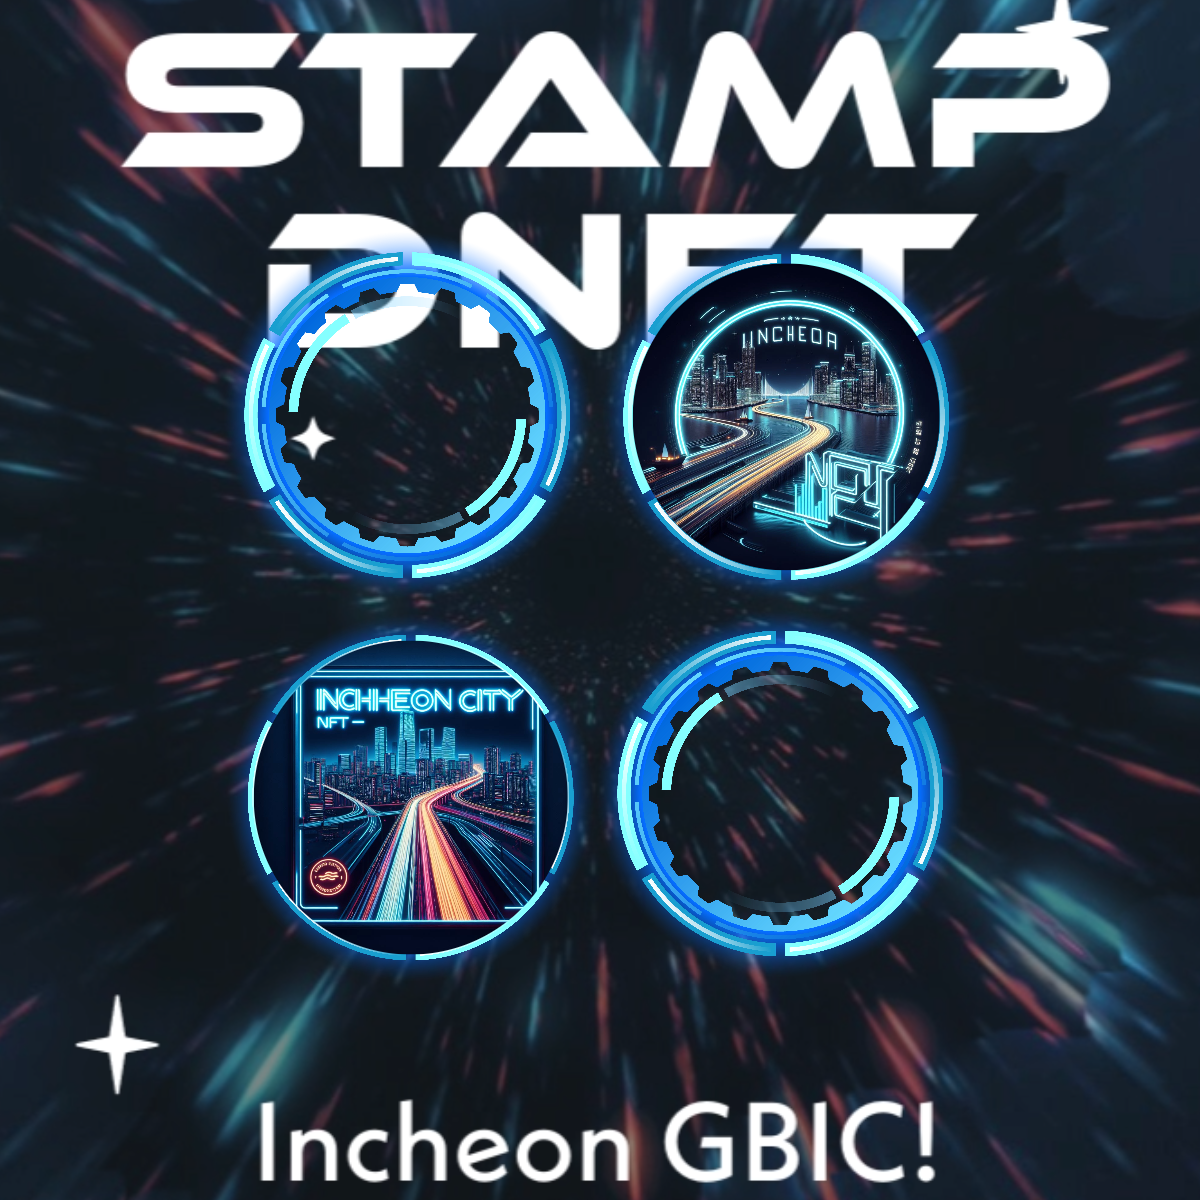
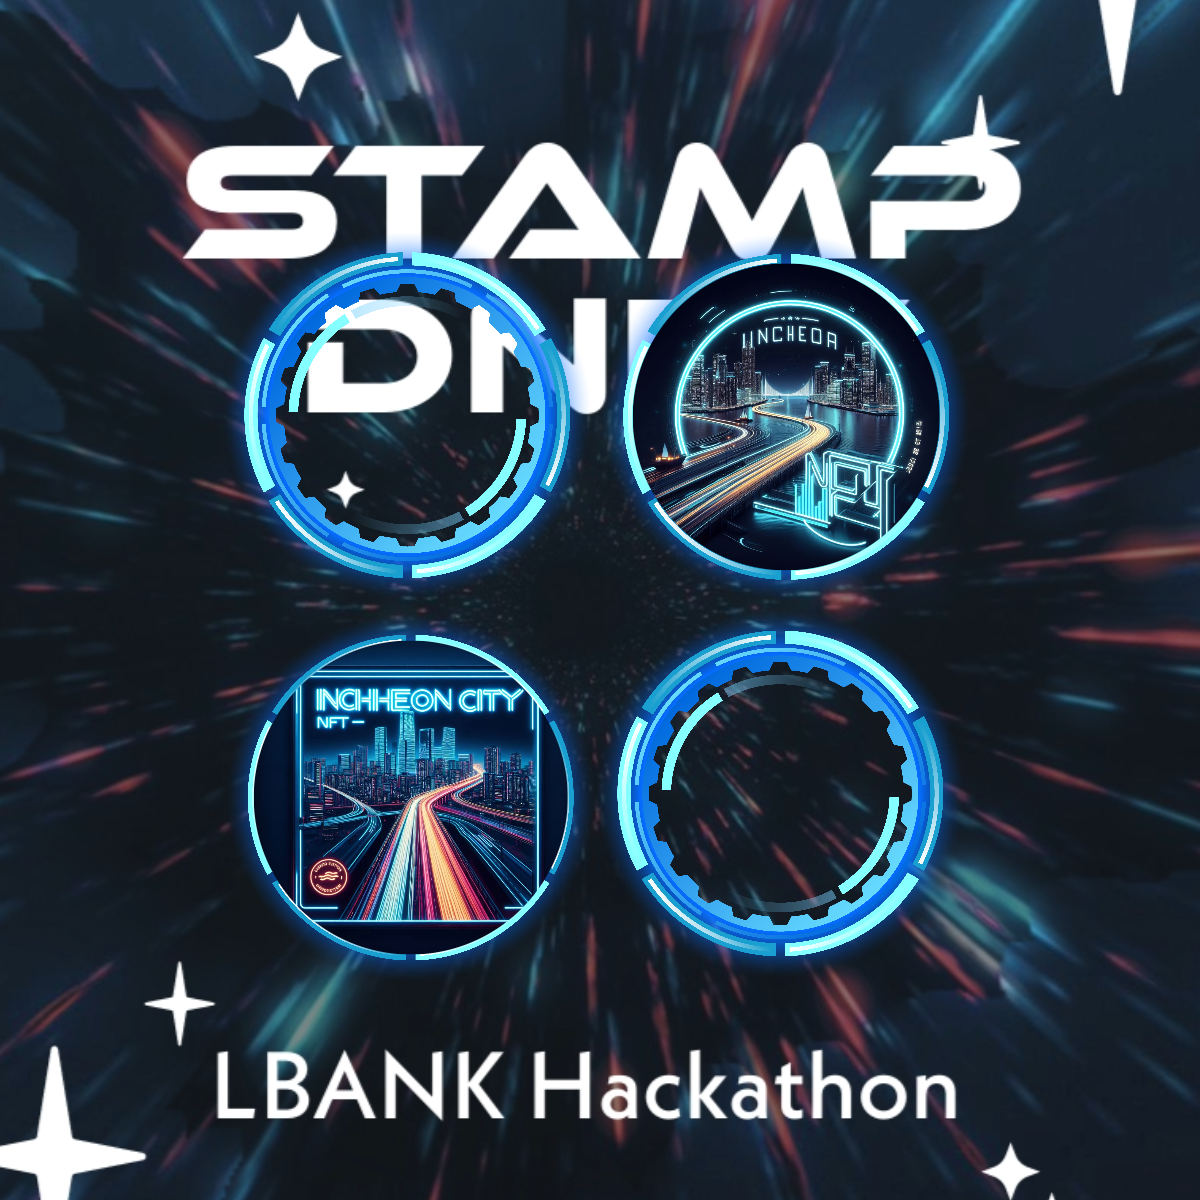
feat: :sparkles: start

diff --git a/client/src/constants/index.ts b/client/src/constants/index.ts
@@ -62,7 +62,7 @@ export const FOOTER_LINKS = [
   },
   {
     title: 'Our Community',
-    links: ['Blockchain at Yonsei', 'GBIC', 'Polygon'],
+    links: ['Blockchain at Yonsei', 'LBANK', 'Polygon'],
   },
 ];
 
@@ -70,7 +70,7 @@ export const FOOTER_CONTACT_INFO = {
   title: 'Contact Us',
   links: [
     { label: 'Admin Officer', value: '123-456-7890' },
-    { label: 'Email Officer', value: 'dNFTwithIncheon.com' },
+    { label: 'Email Officer', value: 'dNFTwithLBANK.com' },
   ],
 };
 
@@ -133,14 +133,14 @@ export const ExampleSeries = {
     description:
       '강화도에 있는 다양한 맛집과 문하재를 탐방하면서 스탬프를 찍어오는 이벤트',
     useWhere: '인천 가락시작',
-    owner: 'GBIC',
+    owner: 'YouJun',
     useWhenFrom: 'Thu Oct 26 2023 00:00:00 GMT+0900 (Korean Standard Time)',
     useWhenTo: 'Thu Oct 26 2023 00:00:00 GMT+0900 (Korean Standard Time)',
   },
   '0': {
     name: 'Series 1 Stamp Board',
     image:
-      'https://raw.githubusercontent.com/LimeTasteLife/2023-GBIC-Hackerthon/49b30f091baa6c0fdae2bfa6d218a81a3158be7d/client/web3/metadata/series2incheon.png',
+      '',
     description: '첫번째 인천 스탬프 NFT 시리즈의 도장판',
     quantity: 10,
     series: 1,
@@ -148,7 +148,7 @@ export const ExampleSeries = {
   '1': {
     name: 'Series 1 Stamp 1',
     image:
-      'https://raw.githubusercontent.com/LimeTasteLife/2023-GBIC-Hackerthon/49b30f091baa6c0fdae2bfa6d218a81a3158be7d/client/web3/metadata/series2incheon.png',
+      '',
     description: '첫번째 인천 스탬프 NFT 시리즈의 도장',
     quantity: 10,
     lat: 37.2345,
@@ -159,7 +159,7 @@ export const ExampleSeries = {
   '2': {
     name: 'Series 1 Stamp 2',
     image:
-      'https://raw.githubusercontent.com/LimeTasteLife/2023-GBIC-Hackerthon/49b30f091baa6c0fdae2bfa6d218a81a3158be7d/client/web3/metadata/series2incheon.png',
+      '',
     description: '첫번째 인천 스탬프 NFT 시리즈의 도장',
     quantity: 10,
     lat: 37.2345,
@@ -170,7 +170,7 @@ export const ExampleSeries = {
   '3': {
     name: 'Series 1 Stamp 3',
     image:
-      'https://raw.githubusercontent.com/LimeTasteLife/2023-GBIC-Hackerthon/49b30f091baa6c0fdae2bfa6d218a81a3158be7d/client/web3/metadata/series2incheon.png',
+      '',
     description: '첫번째 인천 스탬프 NFT 시리즈의 도장',
     quantity: 10,
     lat: 37.2345,
@@ -181,7 +181,7 @@ export const ExampleSeries = {
   '4': {
     name: 'Series 1 Stamp 4',
     image:
-      'https://raw.githubusercontent.com/LimeTasteLife/2023-GBIC-Hackerthon/49b30f091baa6c0fdae2bfa6d218a81a3158be7d/client/web3/metadata/series2incheon.png',
+      '',
     description: '첫번째 인천 스탬프 NFT 시리즈의 도장',
     quantity: 10,
     lat: 37.2345,

diff --git a/client/src/components/LendingPage/Hero.tsx b/client/src/components/LendingPage/Hero.tsx
@@ -17,13 +17,12 @@ const Hero = () => {
           <span className='text-transparent bg-clip-text bg-gradient-to-r to-emerald-600 from-sky-400'>
             Dynamic NFT
           </span>{' '}
-          Stamp event
+          Ticket event
         </span>
         <p className='regular-16 py-6 text-gray-30 xl:max-w-[520px]'>
-          스탬프 보드 NFT와 함께 인천의 다양한 문화를 더욱 알차게 즐기세요! 이
+          스탬프 보드 형식의 Ticket DNFT로 쉽고 빠르게 여러분들의 티켓 이벤트를 만드세요! 이
           스탬프 보드는 여러분들로 하여금 그 어떤 조작과 의심의 여지 없이 오로지
-          재미와 혜택을 위해 존재합니다! 고민하지 마시고 쉽고 빠르게 다양한 인천
-          NFT 이벤트에 참가하세요!
+          재미와 혜택을 위해 존재합니다! 고민하지 마시고 다양한 티켓 이벤트를 만들거나 참여하세요! 그 어떤 티켓 서비스 보다 자유롭고 저렴한, 그러나 강력한 보안을 가진 Ticket 생성, 참여, 관리 서비스를 제공합니다.
         </p>
 
         <div className='my-8 flex flex-wrap gap-5'>
@@ -118,7 +117,7 @@ const Hero = () => {
               </p>
               <p className='bold-18 text-white'>2,000 p</p>
               <p className='bold-18 text-white'>+</p>
-              <p className='bold-18 text-white'>GBIC 입장권</p>
+              <p className='bold-18 text-white'>LBANK 해커톤 입장권</p>
             </div>
           </div>
         </div>

diff --git a/client/src/components/Navbar.tsx b/client/src/components/Navbar.tsx
@@ -79,7 +79,7 @@ export default function App() {
         <Link href='/' color='foreground'>
           <NavbarBrand>
             <Image src='/logo.png' height={36} width={36} alt='logo' />
-            <p className='font-bold text-inherit ml-3'>Dynamic Incheon NFT</p>
+            <p className='font-bold text-inherit ml-3'>DNFT Ticket</p>
           </NavbarBrand>
         </Link>
       </NavbarContent>

diff --git a/client/src/components/Footer.tsx b/client/src/components/Footer.tsx
@@ -59,7 +59,7 @@ const Footer = () => {
         </div>
 
         <div className="border bg-gray-20" />
-        <p className="regular-14 w-full text-center text-gray-30">2023 Dynamic Incheon NFT | All rights reserved</p>
+        <p className="regular-14 w-full text-center text-gray-30">LBANK Dynamic NFT | All rights reserved</p>
       </div>
     </footer>
   )

diff --git a/client/src/pages/_document.tsx b/client/src/pages/_document.tsx
@@ -12,7 +12,7 @@ export default function Document() {
         ></script>
         <meta
           property='og:title'
-          content='Dynamic Incheon NFT with GBIC'
+          content='Dynamic NFT with LBANK'
           key='title'
         />
       </Head>

diff --git a/client/src/components/Layout.tsx b/client/src/components/Layout.tsx
@@ -17,7 +17,7 @@ const Layout: FC<LayoutProps> = ({ children }) => {
   return (
     <>
       <Head>
-        <title>D Incheon NFT</title>
+        <title>DNFT Ticket</title>
 
         <link rel='icon' href='/logo.png' />
       </Head>
